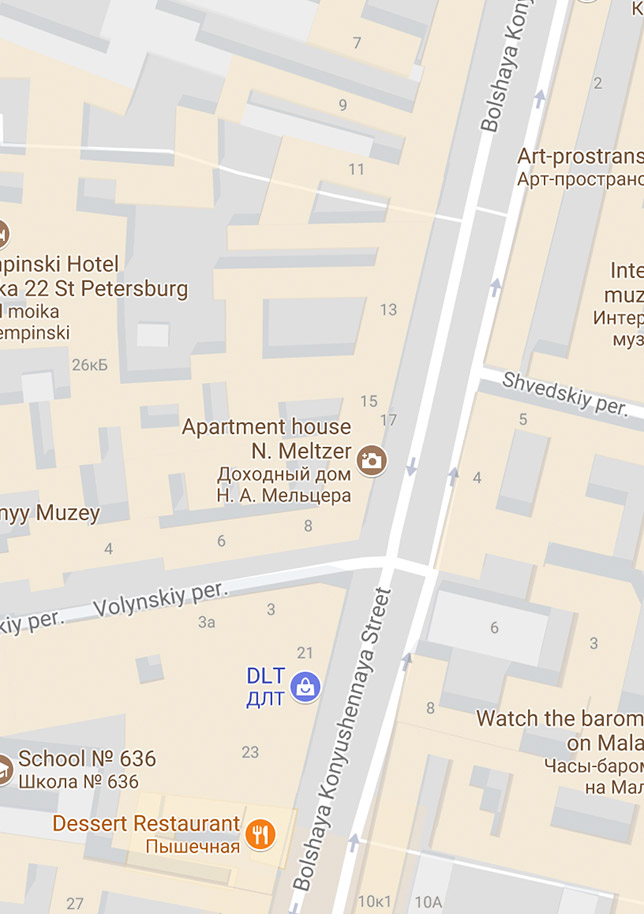
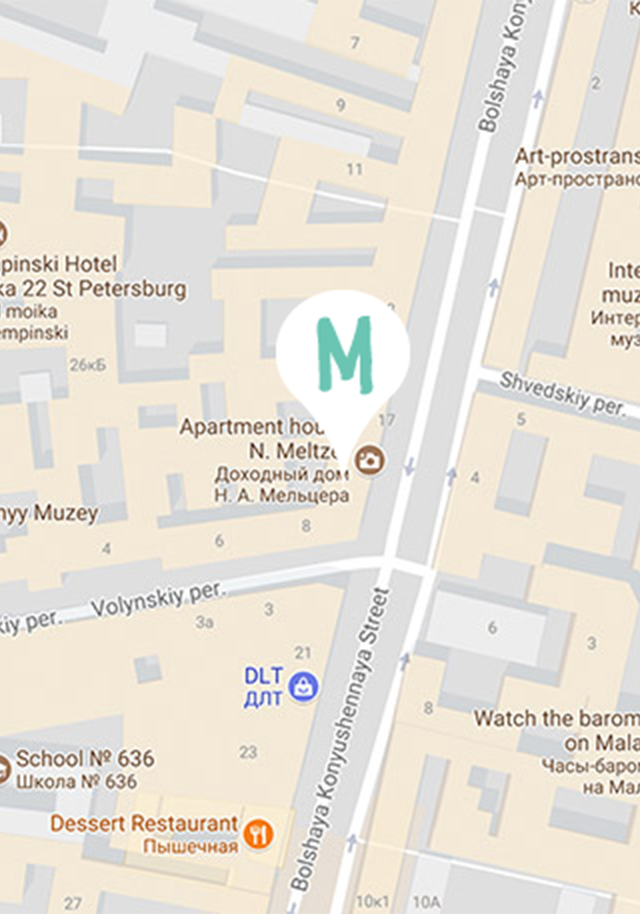
ретинизация

diff --git a/source/catalog.html b/source/catalog.html
@@ -81,9 +81,9 @@
           <li class="catalog__item">
             <a  href="#">
               <picture>
-                <source srcset="img/photo-hare-desktop@1x.jpg" media="(min-width: 1150px)">
-                <source srcset="img/photo-hare-tablet@1x.jpg" media="(min-width: 768px)">
-                <img class="catalog__image" src="img/photo-hare-mobile@1x.jpg" alt="Зайчик ручной работы">
+                <source media="(min-width: 1150px)" srcset="img/photo-hare-desktop@1x.jpg 1x, img/photo-hare-desktop@2x.jpg 2x">
+                <source media="(min-width: 768px)" srcset="img/photo-hare-tablet@1x.jpg 1x, img/photo-hare-tablet@2x.jpg 2x">
+                <img class="catalog__image" src="img/photo-hare-mobile@1x.jpg" srcset="img/photo-hare-mobile@2x.jpg 2x" alt="Зайчик ручной работы">
               </picture>
             </a>
             <div class="catalog__wrapper-border">
@@ -104,9 +104,9 @@
           <li class="catalog__item">
             <a  href="#">
               <picture>
-                <source srcset="img/photo-bowl-desktop@1x.jpg" media="(min-width: 1150px)">
-                <source srcset="img/photo-bowl-tablet@1x.jpg" media="(min-width: 768px)">
-                <img class="catalog__image" src="img/photo-bowl-mobile@1x.jpg" alt="Корзинка для белья ручной работы">
+                <source media="(min-width: 1150px)" srcset="img/photo-bowl-desktop@1x.jpg 1x, img/photo-bowl-desktop@2x.jpg 2x">
+                <source media="(min-width: 768px)" srcset="img/photo-bowl-tablet@1x.jpg 1x, img/photo-bowl-tablet@2x.jpg 2x">
+                <img class="catalog__image" src="img/photo-bowl-mobile@1x.jpg" srcset="img/photo-bowl-mobile@2x.jpg 2x" alt="Корзинка для белья ручной работы">
               </picture>
             </a>
             <div class="catalog__wrapper-border">
@@ -127,9 +127,9 @@
           <li class="catalog__item catalog__item--last">
             <a  href="#">
               <picture>
-                <source srcset="img/photo-toys-desktop@1x.jpg" media="(min-width: 1150px)">
-                <source srcset="img/photo-toys-tablet@1x.jpg" media="(min-width: 768px)">
-                <img class="catalog__image" src="img/photo-toys-mobile@1x.jpg" alt="Большая корзинка для игрушек ручной работы">
+                <source media="(min-width: 1150px)" srcset="img/photo-toys-desktop@1x.jpg 1x, img/photo-toys-desktop@2x.jpg 2x">
+                <source media="(min-width: 768px)" srcset="img/photo-toys-tablet@1x.jpg 1x, img/photo-toys-tablet@2x.jpg 2x">
+                <img class="catalog__image" src="img/photo-toys-mobile@1x.jpg" srcset="img/photo-toys-mobile@2x.jpg 2x" alt="Большая корзинка для игрушек ручной работы">
               </picture>
             </a>
             <div class="catalog__wrapper-border">
@@ -155,9 +155,9 @@
           <h2 class="catalog-production__title">Процесс производства</h2>
           <a href="#" class="catalog-production__video-link">
             <picture>
-              <source srcset="img/video-desktop@1x.jpg" media="(min-width: 1150px)">
-              <source srcset="img/video-tablet@1x.jpg" media="(min-width: 768px)">
-              <img class="catalog-production__image" src="img/video-mobile@1x.jpg">
+              <source media="(min-width: 1150px)" srcset="img/video-desktop@1x.jpg 1x, img/video-desktop@2x.jpg 2x">
+              <source media="(min-width: 768px)" srcset="img/video-tablet@1x.jpg 1x, img/video-tablet@2x.jpg 2x">
+              <img class="catalog-production__image" src="img/video-mobile@1x.jpg" srcset="img/video-mobile@2x.jpg 2x">
             </picture>
           </a>
           <p class="catalog-production__text">

diff --git a/source/index.html b/source/index.html
@@ -117,9 +117,9 @@
                 </tr>
               </table>
               <picture>
-                <source srcset="img/triple-set-desktop@1x.jpg" media="(min-width: 1150px)">
-                <source srcset="img/triple-set-tablet@1x.jpg" media="(min-width: 768px)">
-                <img class="product-of-week__item-image" src="img/triple-set-mobile@1x.jpg" alt="Вязаные корзинки ручной работы">
+                <source media="(min-width: 1150px)" srcset="img/triple-set-desktop@1x.jpg 1x, img/triple-set-desktop@2x.jpg 2x">
+                <source media="(min-width: 768px)" srcset="img/triple-set-tablet@1x.jpg 1x, img/triple-set-tablet@2x.jpg 2x" >
+                <img class="product-of-week__item-image" src="img/triple-set-mobile@1x.jpg" srcset="img/triple-set-mobile@2x.jpg 2x" alt="Вязаные корзинки ручной работы">
               </picture>
               <p class="product-of-week__price">Цена: 990 руб.</p>
               <a href="#" class="product-of-week__button button modal-link-js">Заказать</a>
@@ -223,9 +223,9 @@
             </div>
             <div class="contacts__map-wrapper">
               <picture>
-                <source srcset="img/map-desktop@1x.jpg" media="(min-width: 1150px)">
-                <source srcset="img/map-tablet@1x.jpg" media="(min-width: 768px)">
-                <img class="contacts__map" src="img/map-mobile@1x.jpg" alt="Как до нас добраться">
+                <source media="(min-width: 1150px)" srcset="img/map-desktop@1x.jpg 1x, img/map-desktop@2x.jpg 2x">
+                <source media="(min-width: 768px)" srcset="img/map-tablet@1x.jpg 1x, img/map-tablet@2x.jpg 2x">
+                <img class="contacts__map" src="img/map-mobile@1x.jpg" srcset="img/map-mobile@2x.jpg 2x" alt="Как до нас добраться">
               </picture>
             </div>
             <div class="contacts__button-wrapper">

diff --git a/source/sass/blocks/goods.scss b/source/sass/blocks/goods.scss
@@ -5,6 +5,11 @@
   background-image: url("../img/hero-mobile@1x.jpg");
   background-repeat: no-repeat;
   background-position: center -17px;
+
+  @media (min-resolution: $retina-dpi), (min-resolution: $retina-dppx) {
+    background-image: url("../img/hero-mobile@2x.jpg");
+    background-size: 575px 373px;
+  }
 }
 
 .goods__title {
@@ -120,6 +125,11 @@
       background-size: contain;
       background-position: bottom;
     }
+
+    @media (min-resolution: $retina-dpi), (min-resolution: $retina-dppx) {
+      background-image: url("../img/hero-tablet@2x.jpg");
+      background-size: 1150px 746px;
+    }
   }
 
   .goods__link--interrior {
@@ -163,6 +173,11 @@
   .goods {
     margin-bottom: 58px;
     background-image: url("../img/hero-desktop@1x.jpg");
+
+    @media (min-resolution: $retina-dpi), (min-resolution: $retina-dppx) {
+      background-image: url("../img/hero-desktop@2x.jpg");
+      background-size: 1150px 746px;
+    }
   }
 
   .goods__title {

diff --git a/source/sass/base/variables.scss b/source/sass/base/variables.scss
@@ -1,6 +1,8 @@
 $width-tablet: 768px;
 $width-desktop: 1150px;
 $mobile-width-only: 767px;
+$retina-dpi: 144dpi;
+$retina-dppx: 1.5dppx;
 $blue-color: #63d1bb;
 $black-color: #000000;
 $grey-color: #444444;
